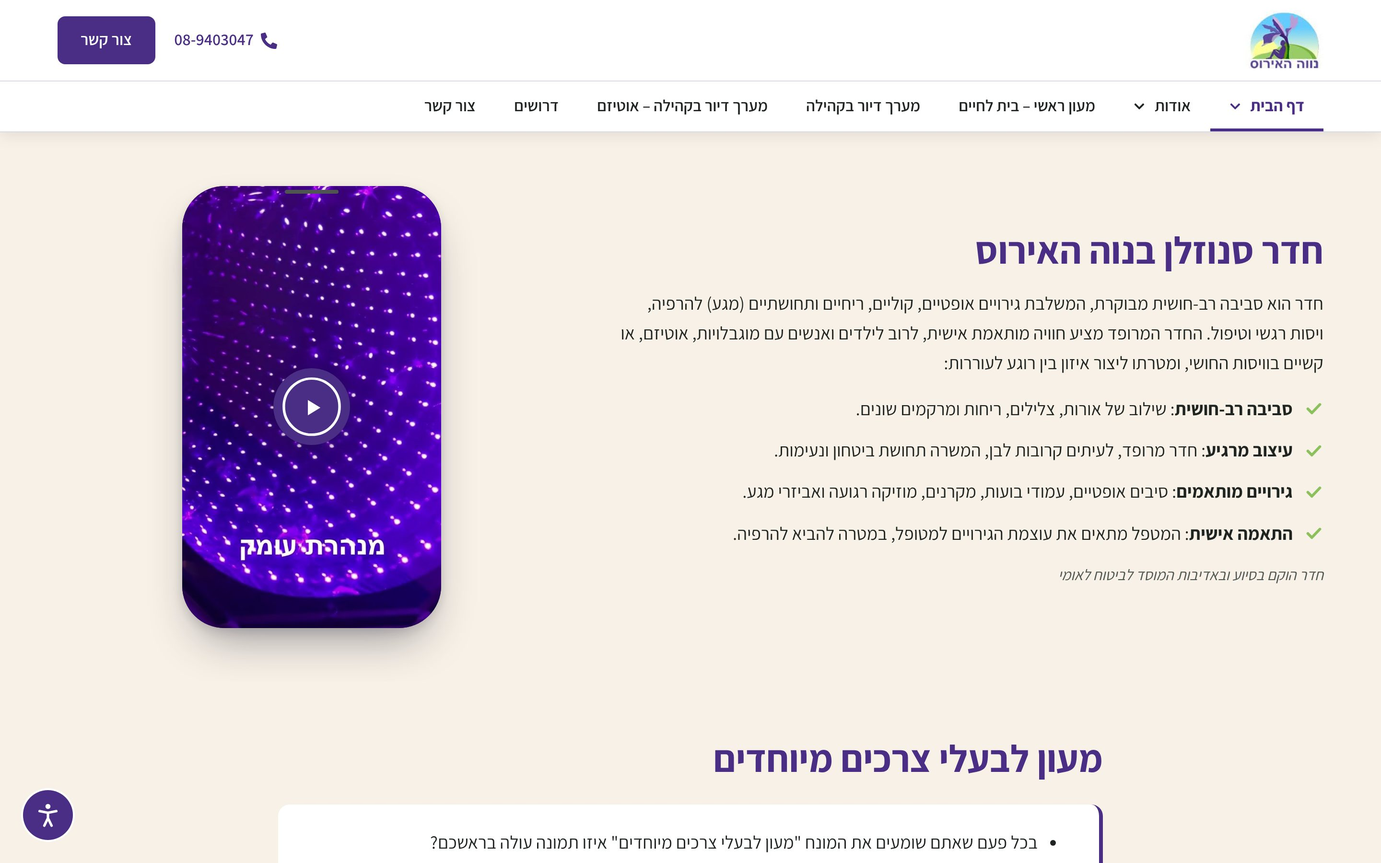
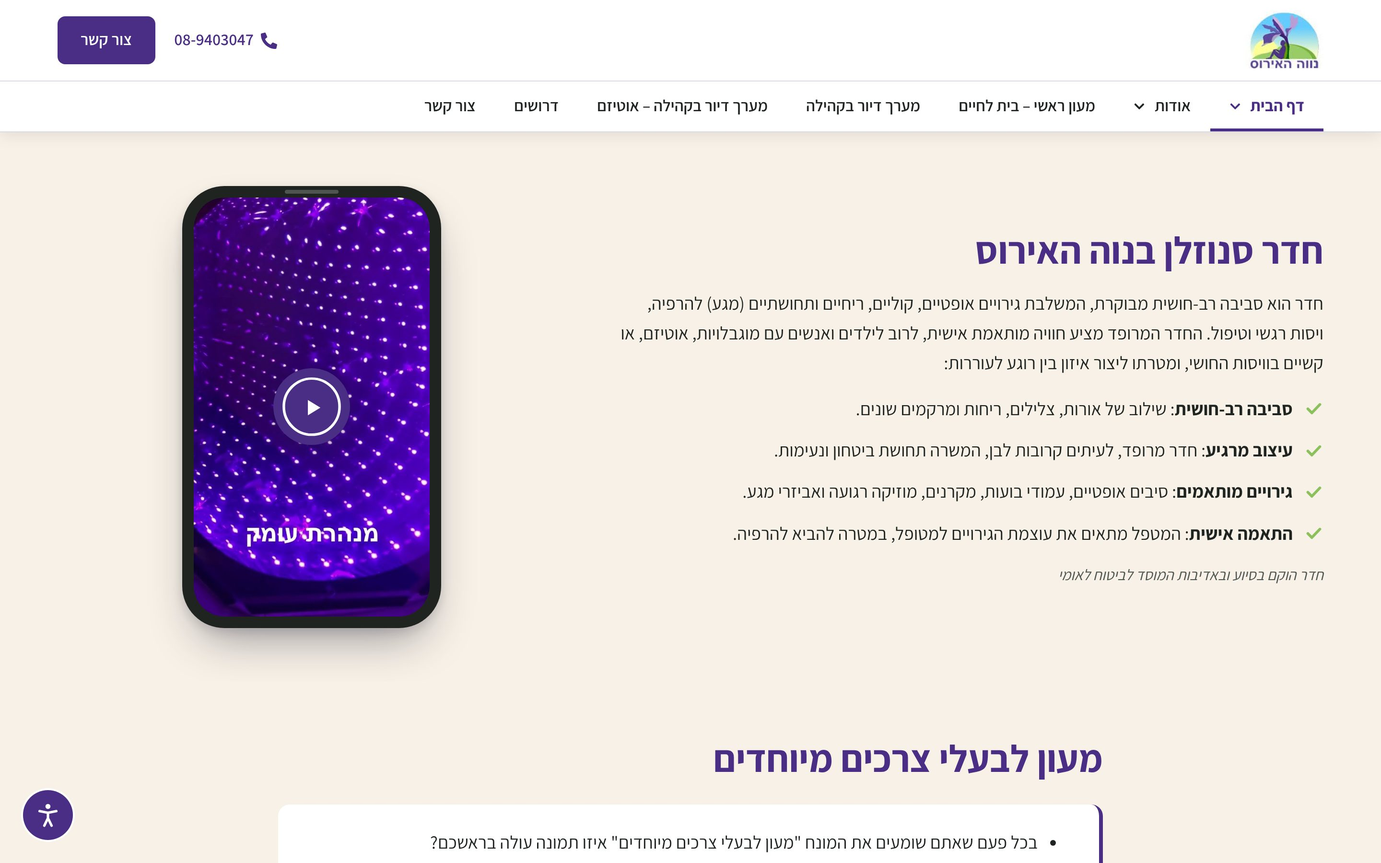
Theme 1.4.9, deployed, and the independent review of v4.4: findings fixed
Four reviewers (layout at 14 widths, accessibility, code, the report's facts),
each finding checked by another agent:
- the hero's own shade values never applied (theme defaults 0,4,0 over the
  Custom CSS 0,3,0): fixed in 1.4.8 just before, confirmed by two reviewers
- the builder let a bare "0" through for the shade lengths, which breaks the
  theme's calc(): "0" is written as "0px", other values need a unit
- the snoezelen phone's cover lay over its 12px bezel since v4.1: the screen is
  its containing block now (1.4.9), the play button stays centred
- stale builder docstring, «darkest» for «lightest» in research/10, the
  message field's height and the play button's position described exactly
- accessibility of the changed parts: no findings

Final checks with 1.4.9 and the new hero: 5 widths x normal and plain mode
clean, axe 0, hero text from 4.88:1, menu from 5.05:1 (the quick script's
150ms wait caught the menu's 250ms colour fade: 600ms now). Report, READMEs
and screenshots updated.

Claude-Session: https://claude.ai/code/session_01NYA1gdoL5LawUvQx1XnfHd

Changed region(s): [[0.125, 0.2178, 0.3438, 0.7467]]

diff --git a/theme/hello-elementor-child/assets/css/v4.css b/theme/hello-elementor-child/assets/css/v4.css
@@ -468,6 +468,10 @@ body:not(.elementor-editor-active) .nh-card .nh-card__title a::after {
 }
 .elementor-element.elementor-widget-video.nh-phone-frame :is(.elementor-wrapper, .elementor-custom-embed-image-overlay) { border-radius: 32px; }
 .elementor-element.elementor-widget-video.nh-phone-frame .elementor-wrapper { overflow: hidden; aspect-ratio: var(--video-aspect-ratio, 9 / 16); }
+/* 1.4.9: the cover sits in the screen, not over the bezel. Elementor's cover is absolute at inset 0; with the screen
+   (.elementor-wrapper) static it filled the whole frame and the 12px bezel never showed before play (since v4.1;
+   found by the independent review of v4.4). The play button stays in the middle of the screen */
+.elementor-element.elementor-widget-video.nh-phone-frame .elementor-wrapper { position: relative; }
 
 /* ---------- The framed box (§4.5): the inline-start border, a fallback the
    container's own border setting overrides ---------- */
@@ -1241,7 +1245,8 @@ body:has(.elementor-location-header .elementor-menu-toggle.elementor-active) .nh
   padding: .75rem 1rem;
   line-height: 1.4;
 }
-/* v4.4 (Itzik 19.11: the band 15% lower): three lines, 6rem (was 8rem); it can still be pulled taller */
+/* v4.4 (Itzik 19.11: the band 15% lower): the field's rows=3 (was 4) sets its height, about 108px (phones 104; it was
+   134 / 129); this min-height is only a floor (it was 8rem). It can still be pulled taller */
 .elementor .elementor-element.nh-contact-form .elementor-field-group textarea.elementor-field-textual { min-height: 6rem; resize: vertical; }
 .elementor .elementor-element.nh-contact-form .elementor-field-group .elementor-field-textual:focus,
 .elementor .elementor-element.nh-contact-form .elementor-field-group .elementor-field-textual:focus-visible {

diff --git a/theme/hello-elementor-child/style.css b/theme/hello-elementor-child/style.css
@@ -2,7 +2,7 @@
 Theme Name:   Hello Elementor Child — נווה האירוס
 Description:  Child theme of Hello Elementor for the site of מעון נווה האירוס. It holds what applies to the whole site (page ground and type, focus ring, link underlines, the skip link, main#content, Hello's CSS off, the font Assistant, the accessibility menu and the call button) and the layer of the v4 pages built from Elementor's own widgets (assets/css/v4.css, assets/js/v4.js); the design of the v3.2 pages lives in the nevehairus-site plugin.
 Template:     hello-elementor
-Version:      1.4.8
+Version:      1.4.9
 Requires PHP: 8.0
 License:      GPL-2.0-or-later
 Text Domain:  hello-elementor-child

diff --git a/theme/hello-elementor-child/assets/js/v4.js b/theme/hello-elementor-child/assets/js/v4.js
@@ -1,5 +1,5 @@
 /* =========================================================================
-   v4.js — child theme hello-elementor-child 1.4.8 (research/09-v4-home-spec.md
+   v4.js — child theme hello-elementor-child 1.4.9 (research/09-v4-home-spec.md
    §5.3–§5.5; research/10-v4.1-home-spec.md §2–§3; research/11-v4.3-home-spec.md).
    No libraries; deferred; on every page.
    1. The accessibility menu (the floating «נגישות» button and its panel, printed

diff --git a/scripts/build_v4.py b/scripts/build_v4.py
@@ -34,10 +34,11 @@ entrance animation, Motion Effects, sticky, hover animation or transition): the 
 zoom, the fade-ins, the cards' lift, the header's change) is the child theme's, keyed to the classes below.
 
 The page (spec 10 §1). Every section is a top-level container: content_width full, css_classes «nh-sec nh-sec--<name>»,
-_element_id <name>, its Kit background, 5rem (phones 3.5rem) above and below; inside it one boxed container
+_element_id <name>, its Kit background, SECTION_PAD above and below (v4.4: 3.5rem, tablets 3rem, phones 2.5rem: 112 /
+96 / 80px between sections); inside it one boxed container
 (nh-sec__inner, the 1320px column with 40/32/20px gutters) unless stated:
   hero           nh-hero, at least 100vh (the theme makes it 100svh and adds the floating header's room), night until
-                 the photo shows; the Image widget nh-hero__img (@media:hero-wide, full size) with the focal point of
+                 the photo shows; the Image widget nh-hero__img (@media:<HERO_PHOTO>, full size) with the focal point of
                  media.json's "focus" as the theme's classes nh-fx-<x> nh-fy-<y> (steps of 5); the boxed nh-hero__content
                  at the bottom (flex end, 12vh under it, phones 9vh): H1 (Kit «כותרת באנר»), the subline, «צור קשר» →
                  #contact and the phone. No inner column, no nh-reveal (the first screen never waits)
@@ -53,7 +54,7 @@ _element_id <name>, its Kit background, 5rem (phones 3.5rem) above and below; in
                  the label as H3); then the rest of «קצת עלינו» (nh-pro__text nh-reveal) at the inline start (right),
                  760px at most. v4.3: no large years (Itzik 18.11)
   (v4.3: the videos section joined «הבית שלנו»; «תודות והמלצות» left the home — Itzik 18.11)
-  snoezelen      as v4; the Short in a phone (nh-phone-frame on the Video widget, 9:16, 300px)
+  snoezelen      as v4; the Short in a phone (nh-phone-frame on the Video widget, 9:16, 270px since v4.4)
   special-needs  an 860px column: H2, the questions in the framed box (nh-framed, white) and the lead open; at their
                  end «להמשך קריאה» (nh-more, a Nested Accordion, collapsed) opens the rest of the live text, as in
                  v4.0 (v4.3, Oleg 18.11, point 7; SPECIAL_READ_MORE = False opens it all); the plain twin after them
@@ -64,8 +65,9 @@ _element_id <name>, its Kit background, 5rem (phones 3.5rem) above and below; in
                  the answers and the date and time only). v4.3: no phone button, no WhatsApp (Itzik 18.11)
 The header (header-v4): logo, the phone, «צור קשר»; the menu. v4.3: «בשפה פשוטה» is in the theme's «נגישות» panel.
 Every section is on the Kit's cream (v4.3, Itzik 18.11), the hero on its photo; the cards are white.
-nh-reveal (spec 10 §3) is on every section's inner column, the cards, the pro cells, the pro text, the video items and
-the life text; a block holding other nh-reveal blocks stays put (the theme moves its children).
+nh-reveal (spec 10 §3) is on every section's inner column (the life section's too: since v4.4 its photo and text
+reveal as one block), the cards, the pro cells, the pro text and the video items; a block holding other nh-reveal
+blocks stays put (the theme moves its children).
 
 Tokens, resolved on deploy (scripts/test_site.py v4):
   @media:<name>    in a media control's id: the attachment (id, url, alt) of templates/v4/media.json's <name>;
@@ -636,11 +638,14 @@ class Builder:
         # its pixels) as the hero's Custom CSS; without them the theme's defaults (1.3.1's values) apply
         # v4.4: and their reach (top_hold, top_fade, top_min, text_rise, text_ramp: CSS lengths), so a photo whose middle
         # should stay bright keeps the shades to the header and the text
-        shade = (self.media.get(HERO_PHOTO) or {}).get("shade") or {}
+        shade = dict((self.media.get(HERO_PHOTO) or {}).get("shade") or {})
+        # a bare "0" is a <number> inside the theme's calc() (header + hold + fade), which drops the whole declaration:
+        # it is written as "0px" (independent review of v4.4)
+        shade = {k: ("0px" if v == "0" else v) for k, v in shade.items()}
         alphas, lengths = ("top", "ambient", "text"), ("top_hold", "top_fade", "top_min", "text_rise", "text_ramp")
         bad = {k: v for k, v in shade.items()
                if not ((k in alphas and isinstance(v, (int, float)) and 0 <= float(v) <= 1)
-                       or (k in lengths and isinstance(v, str) and re.fullmatch(r"0|\d+(\.\d+)?(px|rem|em)", v)))}
+                       or (k in lengths and isinstance(v, str) and re.fullmatch(r"(\d+(\.\d+)?|\.\d+)(px|rem|em)", v)))}
         if bad:
             die(f"templates/v4/media.json: {HERO_PHOTO}: shade {bad} (top / ambient / text 0–1; {' / '.join(lengths)} "
                 "a length in px, rem or em)")

diff --git a/theme/hello-elementor-child/functions.php b/theme/hello-elementor-child/functions.php
@@ -52,6 +52,8 @@
  * videos' play button off the face).
  * 1.4.7: the hero's landscape photo gets a `sizes` that follows the screen's height where the photo is shown by it
  * (phones held upright, most desktops), so the browser picks a file big enough; the shades' edges are eased (v4.css).
+ * 1.4.8: the hero shades' defaults weigh nothing (:where), so a photo's own values in the hero's Custom CSS apply.
+ * 1.4.9: the snoezelen phone's cover sits in its screen, so the bezel shows (v4.css).
  * Verified against Hello Elementor 3.5.2 and Elementor 4.4.0 (16.11.2026).
  *
  * @package hello-elementor-child

diff --git a/README.md b/README.md
@@ -16,7 +16,7 @@
 | **1г. Три направления** | ✅ Было рекомендовано A «בית לחיים» (v1). После отзыва заказчика: v2 и решение жюри по v3 | [research/03](research/03-creative-directions.md), [research/06](research/06-jury-v2-to-v3.md) |
 | **2. Прототип** | ✅ **v3.2 «אותיות שגרים בהן — בשקט»** (16.11): по правилам агентства (Ицик) — без «прыгающих» элементов, движение только при наведении и одно мягкое появление фото; меню из 5 пунктов, текст от 16 px (основной 20), одна система кадра 4:3 и одна цветокоррекция, эмблема с нынешнего сайта. QA: 0 нарушений движения, axe, клавиатура, контраст, без горизонтальной прокрутки 320–2560. Спецификация изменений: [research/07](research/07-calm-v3.2.md), референсы: [research/08](research/08-references-calm.md). v3.1 (одобрена 16.11) сохранена в истории git | [prototype/](prototype/README.md), [скриншоты v3.2](prototype/storyboard/v3.2/) |
 | **✅ Точка одобрения** | v3.1 одобрена 16.11.2026; **v3.2 и сайт на тестовом WordPress — ждут утверждения** ([отчёт](reports/2026-11-16/REPORT.md)) | — |
-| **⟳ 17.11: новое направление** | Ицик о главной v3.2: «זה לא הכיוון שלנו בכלל». Решение Олега: все страницы повторяют структуру нынешнего сайта (те же секции, порядок и меню), новым становится только дизайн, собирается штатными виджетами Elementor. План главной одобрен; **шаг 2 — новая главная v4 на тестовом сайте**, затем **v4.1 «больше жизни»** по замечаниям Ицика и **v4.2 — правки Олега перед показом** (17.11). **18.11: v4.3 по ответам Ицика** — «הבית שלנו», форма связи (заявки в админке), свои «הגדרות עוגיות» на всём сайте, «בשפה פשוטה» в панели «נגישות», кремовый фон, размытые лица; независимое ревю и контрольная проверка, тема 1.4.3. **19.11: v4.4, второй круг Ицика** — один ритм секций (112 / 96 / 80 px), «החיים בנווה האירוס» в колонке, форма и «חדר סנוזלן» на 15 % ниже, обложка ролика без размытия и кнопка «▶» не на лице, новое фото коридора на первом экране с лёгким затемнением, тема 1.4.8; ждёт «ок» (и, если найдётся, оригинал фото баннера). Бэкапы: v3.2 — #58–#61, v4 — #95–#98, v4.2 — #106–#109. Следующая — «מעון ראשי – בית לחיים», после «ок» | [план](reports/2026-11-17/home-plan.md), [отчёт v4](reports/2026-11-17/REPORT-home-v4.md), [отчёт v4.1](reports/2026-11-17/REPORT-home-v4.1.md), [отчёт v4.2](reports/2026-11-17/REPORT-home-v4.2.md), [отчёт v4.3](reports/2026-11-18/REPORT-home-v4.3.md), [отчёт v4.4](reports/2026-11-19/REPORT-home-v4.4.md), [спецификации](research/10-v4.1-home-spec.md), [бэкапы](backups/2026-11-17-v4/README.md) |
+| **⟳ 17.11: новое направление** | Ицик о главной v3.2: «זה לא הכיוון שלנו בכלל». Решение Олега: все страницы повторяют структуру нынешнего сайта (те же секции, порядок и меню), новым становится только дизайн, собирается штатными виджетами Elementor. План главной одобрен; **шаг 2 — новая главная v4 на тестовом сайте**, затем **v4.1 «больше жизни»** по замечаниям Ицика и **v4.2 — правки Олега перед показом** (17.11). **18.11: v4.3 по ответам Ицика** — «הבית שלנו», форма связи (заявки в админке), свои «הגדרות עוגיות» на всём сайте, «בשפה פשוטה» в панели «נגישות», кремовый фон, размытые лица; независимое ревю и контрольная проверка, тема 1.4.3. **19.11: v4.4, второй круг Ицика** — один ритм секций (112 / 96 / 80 px), «החיים בנווה האירוס» в колонке, форма и «חדר סנוזלן» на 15 % ниже, обложка ролика без размытия и кнопка «▶» не на лице, новое фото коридора на первом экране с лёгким затемнением, независимая проверка, тема 1.4.9; ждёт «ок» (и, если найдётся, оригинал фото баннера). Бэкапы: v3.2 — #58–#61, v4 — #95–#98, v4.2 — #106–#109. Следующая — «מעון ראשי – בית לחיים», после «ок» | [план](reports/2026-11-17/home-plan.md), [отчёт v4](reports/2026-11-17/REPORT-home-v4.md), [отчёт v4.1](reports/2026-11-17/REPORT-home-v4.1.md), [отчёт v4.2](reports/2026-11-17/REPORT-home-v4.2.md), [отчёт v4.3](reports/2026-11-18/REPORT-home-v4.3.md), [отчёт v4.4](reports/2026-11-19/REPORT-home-v4.4.md), [спецификации](research/10-v4.1-home-spec.md), [бэкапы](backups/2026-11-17-v4/README.md) |
 | **3. Плагин** | ✅ **`nevehairus-site` 0.2.6 стоит на тестовом сайте** (с 16.11, 12:24 UTC; 0.2.6 — 17.11, 01:40): 20 виджетов Elementor, только официальный API, стили и скрипты только там, где стоят его виджеты, ничего глобально не меняет; общее для сайта — в дочерней теме 1.1.5. Проверки: стенд 78 отрисовок и 81 тест ядра, поведение 57/57, совпадение с прототипом 0 строк различий; две независимые проверки до установки (ошибки, безопасность) | [plugin/](plugin/README.md), [SPEC](plugin/SPEC.md) |
 | **4. Страницы** | ✅ **Главная и «מעון ראשי – בית לחיים» собраны на тестовом сайте** (16.11, 12:25 UTC) из виджетов плагина, с шапкой и подвалом в Theme Builder; 18 фото в медиатеке с alt на иврите. Alt написан для всех 484 изображений нынешнего сайта ([content/photos.csv](content/photos.csv)). Перенос остального контента — после утверждения | https://nevehairus.ussl.co.il/ |
 | 5. Проверка | ✅ Независимая проверка живого сайта (совпадение с прототипом, движение и доступность, границы плагина, безопасность) — найденное исправлено, кроме контента (юридические страницы, почта, получатели форм). Полная проверка всего сайта — после переноса остальных страниц | [отчёт](reports/2026-11-16/REPORT.md) |
@@ -76,6 +76,7 @@
 | 18.11.2026 11:03–14:13 | По итогам проверок и независимого ревю: тема 1.4.0 (правки формы, 11:03 и 11:07) → **1.4.1** (12:52) → **1.4.2** (13:59) → **1.4.3** (14:12), `v4 --go` (12:54, 13:00, 14:13) (главная #32: «להמשך קריאה» как в v4.0, звёздочка у согласия) | 27 подтверждённых замечаний и найденное контрольной проверкой исправлены; «להמשך קריאה» снова открывается (ошибка Elementor при «один пункт» и 0 мс) |
 | 19.11.2026 09:06–09:43 | **Главная v4.4** по второму кругу Ицика: тема 1.4.3 → **1.4.4** (09:06, ещё раз 09:08) → **1.4.5** (09:29) → **1.4.6** (09:43); `v4 --go` (09:06, 09:09, 09:29): главная #32, шапка #86, полоса #87, контакты #88; прежние Kit и документы записаны в журнал (09:06) | отступы секций одинаковые, «החיים בנווה האירוס» в колонке, форма 1011 → 864 px и «חדר סנוזלן» 675 → 573 px на 1440; обложка второго ролика снова исходная (#70, размытая #113 не удалена), кнопка «▶» сбоку; затемнение баннера с переменными размеров, нынешний баннер не изменился |
 | 19.11.2026 10:35–10:45 | **Новое фото баннера** (файл от Олега, 1717×916, очищен и увеличен до 2560): вложение `nh4:hero-corridor` #124, тема 1.4.6 → **1.4.7** (плавные края затемнения, `sizes` фото баннера для телефонов) → **1.4.8** (значения затемнения фото снова применяются), `v4 --go`: главная #32 | затемнение легче: меню от 5,05:1, текст баннера от 4,88:1; прежнее фото #100 не тронуто |
+| 19.11.2026 10:55 | По итогам независимой проверки v4.4: тема 1.4.8 → **1.4.9** (обложка ролика в телефоне «חדר סנוזלן» стоит в экране, рамка видна); сборка записывает «0» в размерах затемнения как «0px» | документы главной не менялись (только отпечаток входов сборки) |
 
 Найдено по ходу: nginx на uPress отвечает **405 на HTTP-метод DELETE**, поэтому скрипт удаляет через `POST …&_method=DELETE`. Бэкапы в ezCache — это только копии настроек кэша; полные бэкапы uPress (ежедневные, 30 дней) видны лишь в панели.
 

diff --git a/reports/2026-11-19/REPORT-home-v4.4.md b/reports/2026-11-19/REPORT-home-v4.4.md
@@ -2,7 +2,7 @@
 
 Для Олега. Главная: https://nevehairus.ussl.co.il/ .
 
-**Версии на тестовом сайте:** тема 1.4.8, плагин 0.2.7, Elementor и Pro 4.4.0, WordPress 7.1.5 (см. «Что ещё»).
+**Версии на тестовом сайте:** тема 1.4.9, плагин 0.2.7, Elementor и Pro 4.4.0, WordPress 7.1.5 (см. «Что ещё»).
 
 **Откат к v4.3:**
 - шаблоны v4.3 лежат в git (коммит e1a9afb, папка `templates/v4`);
@@ -18,7 +18,7 @@
   легче, белый текст читается, на телефоне видны небо и дверь. Файл небольшой и пережат, поэтому на iPhone фото
   мягче прежнего. Если у Ицика или фотографа есть оригинал, заменю за 5 минут.
 - **Сверх списка:** кнопка «▶» на ролике с парнем на телефоне закрывала его лицо. В обоих роликах «הבית שלנו» я
-  сдвинул её к левому краю кадра. Если Ицику больше нравится по центру, верну за минуту.
+  сдвинул её ближе к левому краю кадра. Если Ицику больше нравится по центру, верну за минуту.
 
 Показывать Ицику можно.
 
@@ -64,7 +64,7 @@
 
 - Обложка снова без размытия: исходный кадр, вложение #70. Размытая копия #113 осталась в медиатеке, я её не удалял.
 - **Кнопка «▶»** стояла в центре кадра. На телефоне она закрывала лицо почти целиком, и разрешение теряло смысл.
-  - Теперь в обоих роликах «הבית שלנו» она стоит в левой пятой части кадра, на середине высоты.
+  - Теперь в обоих роликах «הבית שלנו» её центр стоит в 20 % от левого края кадра, на середине высоты.
   - Она не заходит ни на лицо, ни на субтитры. Проверил на 360, 390, 768, 1024, 1440 и 1920 px.
   - С клавиатуры (Tab) рамка фокуса видна целиком.
   - У ролика «חדר סנוזלן» кнопка осталась в центре: там лиц нет.
@@ -158,23 +158,50 @@
 
 ## Проверки на тестовом сайте
 
-После выкладки темы 1.4.6:
+После выкладки темы 1.4.9 с новым фото баннера:
 - **Ширины 360, 390, 768, 1024, 1440**, в обычном и простом режиме:
   - нет горизонтальной прокрутки, наложений и обрезанного текста;
   - все фото загружаются, у каждого есть alt;
   - ошибок в консоли нет.
 - **axe (WCAG 2.1 AA):** 0 нарушений на 390 и 1440, наверху страницы и после прокрутки, в обычном и простом режиме.
-- **Контраст** белого текста на нынешнем фото баннера не изменился:
-  - текст баннера от 8,6:1;
-  - меню на компьютере от 5,4:1.
+- **Контраст белого текста на новом фото:**
+  - текст баннера от 4,88:1;
+  - меню на компьютере от 5,05:1.
 
   Ещё два замера дают 1,00. Это белое кольцо кнопки телефона и белая черта под «דף הבית»: они попадают в рамку
   замера, а не стоят под буквами. Так было и в v4.3.
+
+  Быстрая проверка поначалу показала меню на 4,4:1. Причина была в самом скрипте: он снимал экран через 150 мс после
+  того, как прятал текст, а цвет меню угасает 250 мс, и 11 % белых букв ещё оставались на снимке. Теперь он ждёт
+  600 мс и показывает 5,05:1.
 - **Движение:** с «עצירת אנימציות» и с системной настройкой «уменьшить движение» ничего не движется.
 - **Чужие сайты:** до клика по ролику страница ничего не грузит с чужих сайтов.
 - **Ссылки:** 9 пунктов меню и подвала ведут на 404, как и раньше: этих страниц на тестовом сайте ещё нет.
-- **Ролики:** кнопка «▶» с клавиатуры получает фокус, рамка видна целиком (снимки на iPhone и 1440).
+- **Ролики:** кнопка «▶» с клавиатуры получает фокус, рамка фокуса видна целиком (iPhone и 1440).
+- **Файл фото на разных экранах:** iPhone 13, iPhone SE, Pixel 7, iPad Mini и Mac с Retina берут файл 2560 px,
+  монитор 1920×1080 берёт 2048 px, ноутбук 1366×768 — 1536 px.
 - **Сборка** `scripts/build_v4.py check` проходит.
+
+## Независимая проверка
+
+Четыре проверяющих смотрели v4.4 по отдельности: вёрстку на 14 ширинах, доступность изменённых мест, код и цифры
+отчёта. Каждую находку другой проверяющий пытался опровергнуть. Что подтвердилось и что сделано:
+
+- **Свои значения затемнения для фото не применялись** (нашли двое). Я нашёл это сам чуть раньше, когда ставил
+  новое фото. Исправлено в теме 1.4.8.
+- **Сборка пропускала «0» без единиц** в размерах затемнения, а в CSS такой ноль ломает расчёт и убирает тень. Теперь
+  «0» записывается как «0px», остальное требует единиц (px, rem или em).
+- **Рамка телефона у «חדר סנוזלן» не была видна до запуска ролика:** обложка лежала поверх неё. Так было с v4.1, не
+  из-за v4.4, но правка в одну строку. Исправлено в теме 1.4.9, снимок обновлён.
+- **Неточности в описаниях:**
+  - устаревшие строки в описании сборки (поля секций, ширина телефона, фото баннера);
+  - в спецификации контраст был описан по самому тёмному пикселю вместо самого светлого;
+  - поле «משהו שחשוב לנו לדעת?» стало ниже на одну строку (около 27 px), а не на 2rem;
+  - центр кнопки «▶» стоит в 20 % от края, а не вся кнопка в левой пятой части.
+
+  Всё поправлено.
+- **Доступность изменённых мест** (форма с ошибками, текст с увеличенными интервалами, кнопки роликов, порядок
+  фокуса): замечаний нет.
 
 ## Вопросы
 

diff --git a/theme/README.md b/theme/README.md
@@ -146,7 +146,9 @@
 - **«החיים בנווה האירוס»:** фото стоит в колонке, как всё остальное, поэтому у него углы 16 px, как у кубиков (было 0:
   фото шло от края до края).
 - **Ролик «חדר סנוזלן»:** рамка телефона не шире 270 px (было 300), секция на 15 % ниже.
-- **Форма связи:** поле «משהו שחשוב לנו לדעת?» в три строки, 6rem (было 8rem); его по-прежнему можно растянуть.
+- **Форма связи:** поле «משהו שחשוב לנו לדעת?» в три строки вместо четырёх: около 108 px, на телефоне 104 (было 134
+  и 129). Высоту задаёт число строк; наименьшая высота в CSS (6rem, было 8rem) — только нижний предел. Поле
+  по-прежнему можно растянуть.
 
 **1.4.5** (19.11, к новому фото баннера):
 - **Затемнение баннера:** кроме трёх плотностей (1.4.0), переменными стали и их размеры:
@@ -178,3 +180,7 @@
   (0,4,0) было сильнее Custom CSS баннера в Elementor (0,3,0), и значения, подобранные для фото в
   `templates/v4/media.json`, не применялись с 1.4.0. В v4.3 у фото своих значений не было, поэтому это было
   незаметно.
+
+**1.4.9** (19.11, по итогам независимой проверки v4.4):
+- **Телефон с роликом «חדר סנוזלן»:** обложка ролика стоит в экране телефона, а не поверх его рамки. С v4.1 обложка
+  закрывала рамку 12 px целиком, и до запуска ролик не выглядел телефоном. Кнопка «▶» осталась в середине экрана.

diff --git a/research/12-v4.4-home-spec.md b/research/12-v4.4-home-spec.md
@@ -78,7 +78,8 @@ The rules are unchanged:
 
   - The card's padding is 1.5rem (phones 1.25rem).
   - The fields are 12 px apart; labels sit 6 px above their fields.
-  - The message field is three lines high (6rem, was 8rem) and can still be pulled taller.
+  - The message field has three rows instead of four: about 108 px high, 104 on phones (was 134 / 129). Its rows set
+    the height; the CSS min-height (6rem, was 8rem) is only a floor. It can still be pulled taller.
   - The fields stay 56 px high, and the text size is unchanged. That is why phones shrink less.
 - **«חדר סנוזלן»** (heights in px):
 
